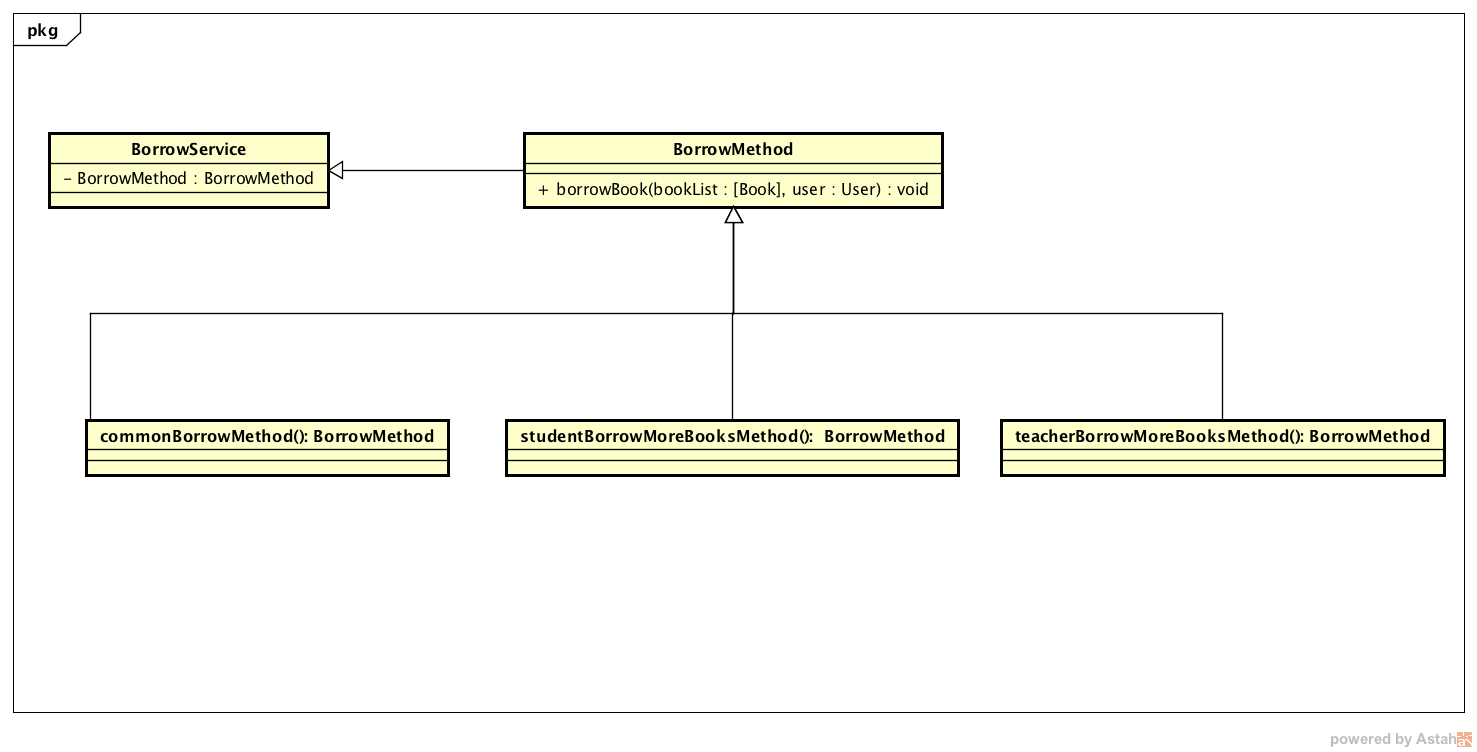
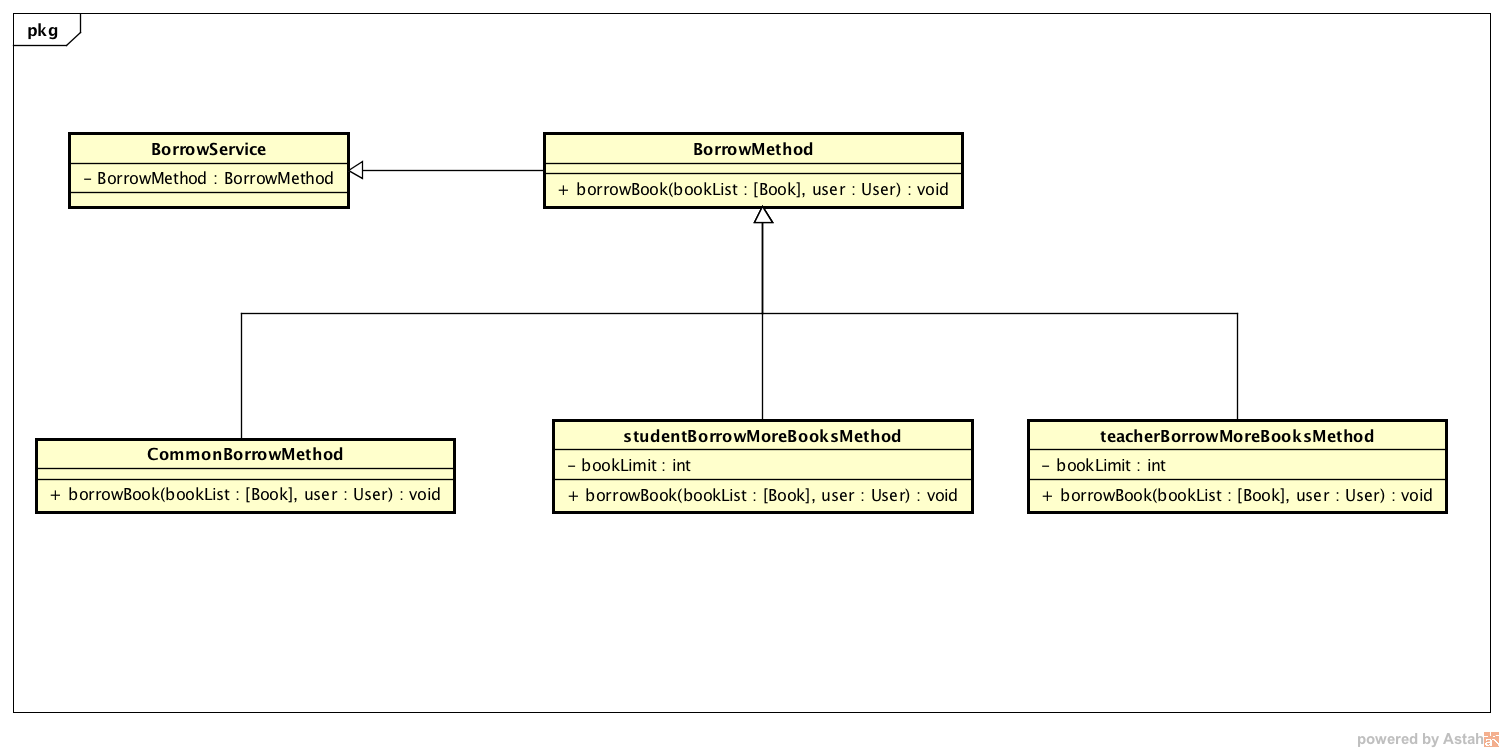
fix component1

diff --git a/Library-Info-App/Library-Info-App/BorrowMethod.swift b/Library-Info-App/Library-Info-App/BorrowMethod.swift
@@ -8,38 +8,26 @@
 
 import Foundation
 
-extension BorrowMethod {
-    func commonBorrowMethod() -> BorrowMethod {
-        let method = BorrowMethod(teacherBookLimit: 10, studentBookLimit: 5)
-        return method
-    }
-    
-    func studentBorrowMoreBooksMethod() -> BorrowMethod {
-        let method = BorrowMethod(teacherBookLimit: 10, studentBookLimit: 10)
-        return method
-    }
-    
-    func teacherBorrowMoreBooksMethod() -> BorrowMethod {
-        let method = BorrowMethod(teacherBookLimit: 20, studentBookLimit: 5)
-        return method
+protocol BorrowMethod {
+    func borrowBooks(user: User, bookList: [Book])
+}
+
+class CommonBorrowMethod: BorrowMethod {
+    func borrowBooks(user: User, bookList: [Book]) {
+        print("Common borrow books...")
     }
 }
 
-class BorrowMethod {
-    
-    public var teacherBookLimit: Int
-    
-    public var studentBookLimit: Int
-    
-    init(teacherBookLimit: Int, studentBookLimit: Int) {
-        self.teacherBookLimit = teacherBookLimit
-        self.studentBookLimit = studentBookLimit
+class StudentBorrowMethod: BorrowMethod {
+    var bookLimit = 5
+    func borrowBooks(user: User, bookList: [Book]) {
+        print("Student borrow books...")
     }
-    
-    public func borrowBook(bookList: [Book], user: User) {
-        
-    }
-    
 }
 
-// let testMethod = BorrowMethod(teacherBookLimit: 10, studentBookLimit: 5).studentBorrowMoreBooksMethod().teacherBorrowMoreBooksMethod()
+class TeacherBorrowMethod: BorrowMethod {
+    var bookLimit = 10
+    func borrowBooks(user: User, bookList: [Book]) {
+        print("Teacher borrow books...")
+    }
+}

diff --git a/Library-Info-App/Library-Info-App/BorrowService.swift b/Library-Info-App/Library-Info-App/BorrowService.swift
@@ -8,15 +8,32 @@
 
 import Foundation
 
+enum MethodType {
+    case Common, Teacher, Student
+}
+
 class BorrowService {
     
     private var user: User
     
-    private var method: BorrowMethod
+    private var bookList: [Book]
     
-    init(user: User, method: BorrowMethod) {
+    private var methodType: MethodType
+    
+    private var borrowMethod: BorrowMethod?
+    
+    init(user: User, bookList: [Book], methodType: MethodType) {
         self.user = user
-        self.method = method
+        self.bookList = bookList
+        self.methodType = methodType
+        switch methodType {
+        case .Common:
+            self.borrowMethod = CommonBorrowMethod()
+        case .Teacher:
+            self.borrowMethod = TeacherBorrowMethod()
+        case .Student:
+            self.borrowMethod = StudentBorrowMethod()
+        }
     }
     
 }
